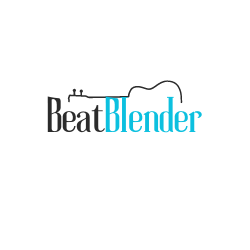
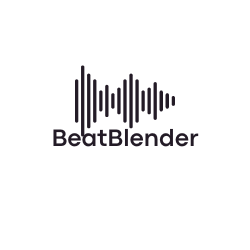
Finishing hero page

Changed region(s): [[0.168, 0.252, 0.812, 0.588]]

diff --git a/beatblender/src/components/HeroStyles.css b/beatblender/src/components/HeroStyles.css
@@ -1,0 +1,72 @@
+#root {
+    height: 100%;
+  }
+  
+
+.hero {
+    width: 100%;
+    height: 100vh;
+    position: relative;
+  }
+
+.hero-img {
+    width: 100%;
+    height: 100%;
+    object-fit: cover;
+}
+
+.hero-text {
+    position: absolute;
+    top: 80%;
+    left: 50%;
+    transform: translate(-50%, -50%);
+    width: 100%;
+    color: white;
+    text-align: center;
+}
+
+.hero-text h1 {
+    font-size: 4rem;
+    font-weight: 800;
+    background: #222;
+    -webkit-background-clip: text;
+    -webkit-text-fill-color: transparent;
+}   
+
+
+.hero-text p {
+    font-size: 1.2rem;
+    color: #fff;
+    padding: 0.5rem 0 2rem 0;
+}   
+
+
+.hero-text .show {
+    text-decoration: none;
+    background-color: #fff;
+    padding: 1rem 2rem; 
+    border-radius: 6px;
+    font-size: 1.1rem;
+    font-weight: bold;
+    letter-spacing: 2px;
+    color: #222;
+}
+
+
+@media screen and (max-width:555px) {
+    .hero-text h1 {
+        padding: 10px 20px
+    }
+    
+    .hero-text p {
+        font-size: 1.1rem;
+        padding: 0 0 2rem 0;
+    }
+
+    .hero-text .show {
+        padding: 0.6rem 1.1rem; 
+        border-radius: 6px;
+        font-size: 1rem;
+    }
+
+}

diff --git a/beatblender/src/App.js b/beatblender/src/App.js
@@ -1,25 +1,26 @@
 import React from 'react';
 import './App.css';
 // import router 
-import { BrowserRouter as Router, Routes, Route } from "react-router-dom";
+import { Routes, Route } from "react-router-dom";
 // import components
-import Navbar from './components/Navbar';
-import Home from './components/Home';
-import About from './components/About';
-import Services from './components/Services';
-import Contact from './components/Contact';
+import Home from './routes/Home';
+import About from './routes/About';
+import Services from './routes/Services';
+import Contact from './routes/Contact';
 
 function App() {
   return (
-    <Router>
-      <Navbar />
+    <div className="App">
+    
       <Routes>
-        <Route path="/" exact element={<Home/>} />
-        <Route path="/about" element={<About/>} />
-        <Route path="/services" element={<Services/>} />
-        <Route path="/contact" element={<Contact/>} />
+        <Route path="/" element={<Home/>}/>
+        <Route path="/about" element={<About/>}/>
+        <Route path="/services" element={<Services/>}/>
+        <Route path="/contact" element={<Contact/>}/>
       </Routes>
-    </Router>
+
+
+</div>
   );
 }
 

diff --git a/beatblender/src/components/NavbarStyles.css b/beatblender/src/components/NavbarStyles.css
@@ -1,4 +1,5 @@
 .NavbarItems {
+    background-color: #fff;
     display: flex;
     justify-content:space-between;
     align-items: center;
@@ -13,13 +14,6 @@
     z-index: 9999;
 }
 
-
-.navbar-logo {
-    color: #222;
-    font-size: 2rem;
-    cursor: pointer;
-}
-
 .nav-menu {
     display:grid;
     grid-template-columns: repeat(6, auto);
@@ -27,6 +21,18 @@
     list-style: none;
     align-items: center;
 }
+
+.navbar-logo {
+    color: #222;
+    font-size: 2rem;
+    cursor: pointer;
+    display: flex;
+    align-items: center;
+    height: 250px;
+    padding: 2.7rem 0 1rem 0;
+}
+
+
 
 .nav-links {
 text-decoration: none;
@@ -93,7 +99,8 @@ button:hover {
        align-items: stretch;
        padding: 80px 0 30px 0;
        margin: 0;
-       
+       transition: 0.3s ease-in-out;
+       border-radius: 13px;
     }
 
     .nav-menu.active {

diff --git a/beatblender/src/components/Navbar.js b/beatblender/src/components/Navbar.js
@@ -14,8 +14,7 @@ class Navbar extends Component {
     render() {
   return (
     <nav className="NavbarItems">
-    <img className='logo1' src={logo1} alt="Logo" />
-    <h1 className="navbar-logo"> </h1>
+    <img className="navbar-logo" src={logo1} alt="Logo" />
 
         <div className="menu-icons" onClick=
         {this.handleClick}>
@@ -29,9 +28,9 @@ class Navbar extends Component {
             {Menuitems.map((item, index) => {
                 return (    
                 <li key={index}>
-                    <a className={item.cName}  href="/">
+                    <Link className={item.cName}  to={item.url}>
                     <i className={item.icon}></i>{item.title}
-                    </a>
+                    </Link>
                 </li>
                 )
             })}

diff --git a/beatblender/src/components/Hero.js b/beatblender/src/components/Hero.js
@@ -1,0 +1,23 @@
+import React from 'react'
+import "./HeroStyles.css"
+import heroImg from "./image/hero.jpg"
+
+const Hero = (props) => {
+  return (
+    <div className={props.cName}>
+
+    <img className="hero-img" alt="HeroImg" src={props.heroImg}/>
+
+    <div className="hero-text">
+        <h1>{props.title}</h1>
+        <p>{props.text}</p>
+        <a href={props.url} className={props.btnClass}>
+            {props.buttonText}
+        </a>
+    </div>
+
+    </div>
+  )
+}
+
+export default Hero

diff --git a/beatblender/src/routes/Home.js b/beatblender/src/routes/Home.js
@@ -1,0 +1,24 @@
+import React from 'react'
+import Navbar from '../components/Navbar'
+import Hero from '../components/Hero'
+import heroImg from "../components/image/hero.jpg"
+
+const Home = () => {
+  return (
+    <>
+    <Navbar/>
+    <Hero
+    cName="hero"
+    heroImg = {heroImg}
+    title='Match your mood with our temp-based tunes!'
+    text="Login to get started"
+    buttonText="Login"
+    url="/login"
+    btnClass="show"
+    />
+ 
+      </>
+  )
+}
+
+export default Home

diff --git a/beatblender/src/index.js b/beatblender/src/index.js
@@ -3,12 +3,13 @@ import ReactDOM from 'react-dom/client';
 import './index.css';
 import App from './App';
 import reportWebVitals from './reportWebVitals';
+import { BrowserRouter } from 'react-router-dom';
 
 const root = ReactDOM.createRoot(document.getElementById('root'));
 root.render(
-  <React.StrictMode>
+  <BrowserRouter>
     <App />
-  </React.StrictMode>
+  </BrowserRouter>
 );
 
 // If you want to start measuring performance in your app, pass a function

diff --git a/beatblender/src/components/Layout.jsx b/beatblender/src/components/Layout.jsx
@@ -1,0 +1,14 @@
+import React from "react";
+import {Outlet} from "react-router-dom";
+import Navbar from "./Navbar";
+
+const Layout = () => {
+  return (
+    <>
+      <Navbar />
+      <Outlet />
+    </>
+  );
+};
+
+export default Layout;

diff --git a/beatblender/src/routes/Services.js b/beatblender/src/routes/Services.js
@@ -2,7 +2,10 @@ import React from 'react'
 
 const Services = () => {
   return (
-    <div>Services</div>
+    <>
+    <div>Why</div>
+
+    </>
   )
 }
 

diff --git a/beatblender/src/components/Homepage.js b/beatblender/src/components/Homepage.js
@@ -1,0 +1,9 @@
+import React from 'react'
+
+const Homepage = () => {
+  return (
+    <div>FrontPage</div>
+  )
+}
+
+export default Homepage
